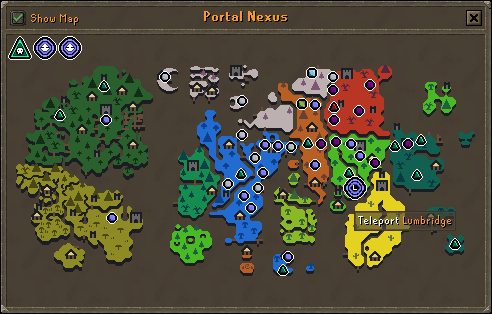
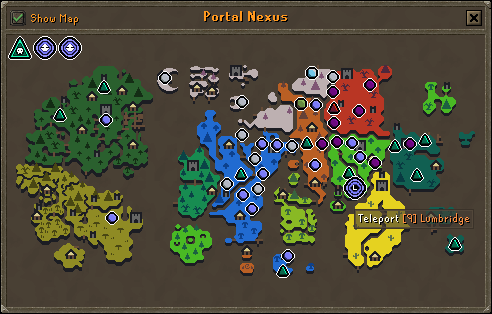
Slightly bigger teleport orbs (12x -> 14x)

diff --git a/src/main/java/net/antipixel/nexus/NexusMapPlugin.java b/src/main/java/net/antipixel/nexus/NexusMapPlugin.java
@@ -80,7 +80,7 @@ public class NexusMapPlugin extends Plugin
 
 	/* Widget dimensions and positions */
 	private static final int TELE_ICON_SIZE = 24;
-	private static final int TELE_OW_ICON_SIZE = 12;
+	private static final int TELE_OW_ICON_SIZE = 14;
 	private static final int MAP_SECTION_POS_X = 7;
 	private static final int MAP_SECTION_POS_Y = 35;
 	private static final int INDEX_MAP_SPRITE_WIDTH = 478;
